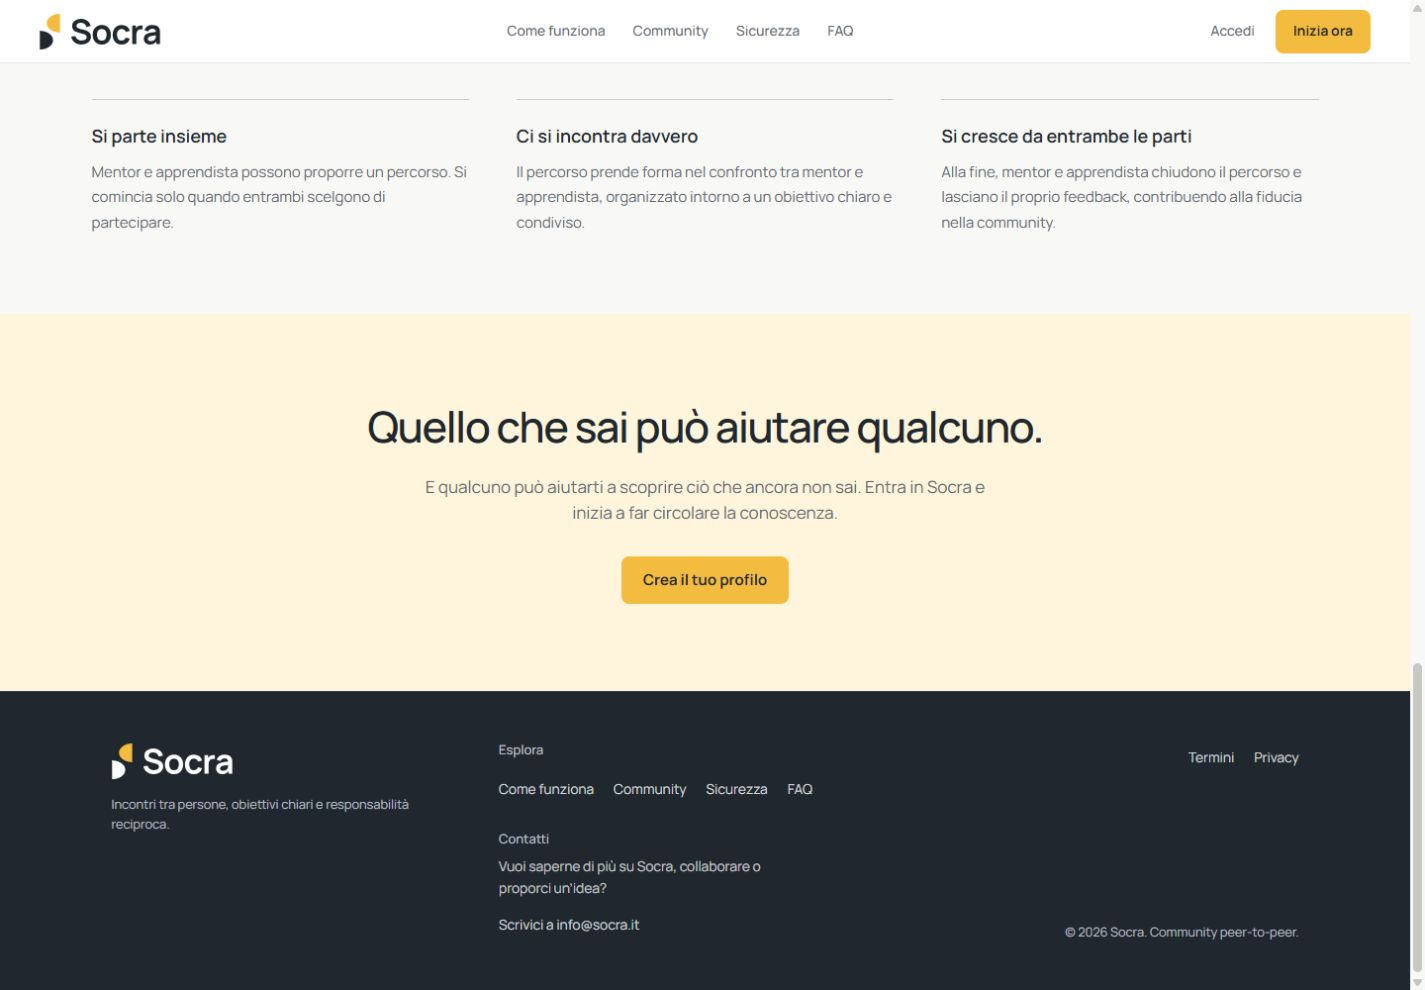
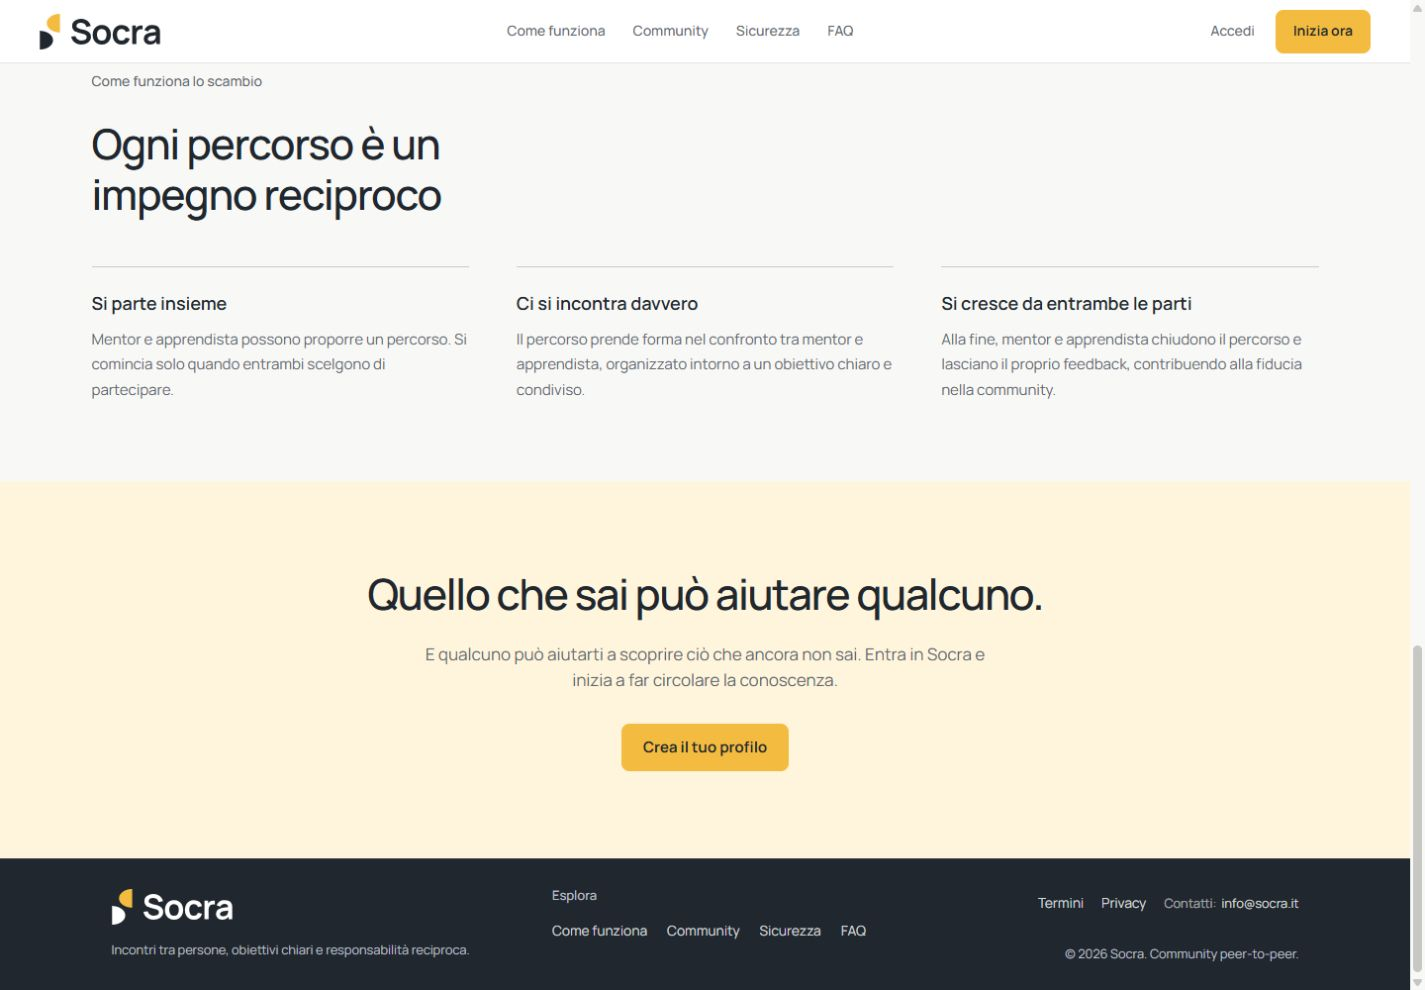
Use the approved compact contact row in the public footer

diff --git a/components/PublicLayout.module.css b/components/PublicLayout.module.css
@@ -146,13 +146,13 @@
   background: var(--navy-950);
   border-top: 1px solid rgba(255, 255, 255, 0.09);
   color: rgba(255, 255, 255, 0.72);
-  padding: 48px clamp(18px, 4vw, 40px);
+  padding: 26px clamp(18px, 4vw, 40px);
 }
 
 .footerInner {
   display: grid;
-  gap: 30px;
-  grid-template-columns: minmax(170px, 0.8fr) minmax(260px, 1.2fr) auto;
+  gap: 20px 38px;
+  grid-template-columns: minmax(210px, 0.9fr) minmax(260px, 1fr) auto;
   margin: 0 auto;
   max-width: 1200px;
 }
@@ -175,22 +175,7 @@
 .footerNavGroup {
   align-content: start;
   display: grid;
-  gap: 12px;
-}
-
-.footerContacts {
-  display: grid;
   gap: 8px;
-  justify-items: start;
-  margin-top: 12px;
-}
-
-.footerContactText {
-  color: rgba(255, 255, 255, 0.72);
-  font-size: 0.86rem;
-  line-height: 1.6;
-  margin: 0;
-  max-width: 38ch;
 }
 
 .footerNavLabel {
@@ -206,7 +191,26 @@
   align-items: flex-start;
   display: flex;
   flex-wrap: wrap;
-  gap: 6px 20px;
+  gap: 2px 20px;
+}
+
+.footerMetaNav {
+  align-items: center;
+  gap: 2px 18px;
+  justify-content: flex-end;
+}
+
+.footerContact {
+  align-items: center;
+  color: rgba(255, 255, 255, 0.58);
+  display: inline-flex;
+  font-size: 0.8rem;
+  gap: 5px;
+  white-space: nowrap;
+}
+
+.footerContact .footerLink {
+  font-size: inherit;
 }
 
 .footerLink {
@@ -233,8 +237,9 @@
   align-items: flex-end;
   display: flex;
   flex-direction: column;
-  gap: 12px;
+  gap: 14px;
   justify-content: space-between;
+  min-height: 80px;
   text-align: right;
 }
 
@@ -391,6 +396,20 @@
 .footerLink { color: #d4d8da; }
 .footerNavLabel { text-transform: none; letter-spacing: 0; font-size: .8125rem; font-weight: 500; }
 
+@media (max-width: 1250px) {
+  .footerInner {
+    gap: 20px 24px;
+    grid-template-columns: minmax(190px, 1fr) minmax(240px, 1fr);
+  }
+
+  .footerMeta {
+    align-items: center;
+    flex-direction: row;
+    grid-column: 1 / -1;
+    min-height: 0;
+  }
+}
+
 @media (max-width: 900px) {
   .nav {
     grid-template-columns: auto 1fr;
@@ -449,14 +468,47 @@
     margin: 8px 0;
   }
 
+}
+
+@media (max-width: 650px) {
+  .footer {
+    padding-block: 22px;
+  }
+
   .footerInner {
-    grid-template-columns: 1fr 1.5fr;
+    gap: 20px 16px;
+    grid-template-columns: 1fr;
+  }
+
+  .footerNav {
+    gap: 0 22px;
   }
 
   .footerMeta {
     align-items: flex-start;
-    grid-column: 1 / -1;
+    border-top: 1px solid rgba(255, 255, 255, 0.1);
+    flex-direction: column;
+    gap: 10px;
+    grid-column: auto;
+    padding-top: 10px;
     text-align: left;
+  }
+
+  .footerMetaNav {
+    gap: 0 18px;
+    justify-content: flex-start;
+  }
+
+  .footerContact {
+    flex-basis: 100%;
+  }
+
+  .footerLink {
+    min-height: 30px;
+  }
+
+  .footerNavGroup .footerLink {
+    font-size: 0.8rem;
   }
 }
 
@@ -476,27 +528,6 @@
 
   .shortCta {
     display: inline;
-  }
-
-  .footer {
-    padding-block: 40px;
-  }
-
-  .footerInner {
-    grid-template-columns: 1fr;
-  }
-
-  .footerMeta {
-    grid-column: auto;
-  }
-
-  .footerNav {
-    display: grid;
-    grid-template-columns: 1fr 1fr;
-  }
-
-  .footerLink {
-    min-height: 42px;
   }
 
   .actionGold,

diff --git a/components/PublicLayout.tsx b/components/PublicLayout.tsx
@@ -178,14 +178,9 @@ export function PublicFooter() {
               </Link>
           ))}
           </nav>
-          <section aria-labelledby="footer-contacts-heading" className={styles.footerContacts}>
-            <h2 className={styles.footerNavLabel} id="footer-contacts-heading">Contatti</h2>
-            <p className={styles.footerContactText}>Vuoi saperne di più su Socra, collaborare o proporci un’idea?</p>
-            <a className={styles.footerLink} href="mailto:info@socra.it">Scrivici a info@socra.it</a>
-          </section>
         </div>
         <div className={styles.footerMeta}>
-          <nav aria-label="Informazioni legali" className={styles.footerNav}>
+          <nav aria-label="Contatti e informazioni legali" className={`${styles.footerNav} ${styles.footerMetaNav}`}>
             <Link prefetch={true}
               aria-current={pathname === "/termini" ? "page" : undefined}
               className={styles.footerLink}
@@ -200,6 +195,7 @@ export function PublicFooter() {
             >
               Privacy
             </Link>
+            <span className={styles.footerContact}>Contatti: <a className={styles.footerLink} href="mailto:info@socra.it">info@socra.it</a></span>
           </nav>
           <p className={styles.copyright}>© {year} Socra. Community peer-to-peer.</p>
         </div>

diff --git a/docs/testing/2026-10-17-public-contacts.md b/docs/testing/2026-10-17-public-contacts.md
@@ -2,9 +2,9 @@
 
 ## Perimetro e fonti
 
-Approvati dal responsabile: indirizzo `info@socra.it`, creazione della casella Aruba e sottosezione **Contatti** nel footer condiviso delle pagine pubbliche. Fonte funzionale: `Socra-BE/docs/wiki/01-community.md`, aggiornata nello stesso lavoro. Basi release recuperate con fetch: FE `457eae9deaf4e0274058b1241d28ec9b0632e204`, BE `b39abfbbdbfc912205b3c045747ae2626da44d6f`. Branch di lavoro: FE `fix/public-contacts-20261017`, BE `docs/public-contacts-20261017`; checkout originari e lavoro delle altre chat preservati.
+Approvati dal responsabile: indirizzo `info@socra.it`, creazione della casella Aruba e **variante B** per il footer, scelta dopo confronto di due prototipi desktop/mobile. Testo finale “Contatti: info@socra.it” accanto a Termini/Privacy, senza blocco descrittivo separato; su mobile il contatto occupa la riga successiva. Fonte funzionale: `Socra-BE/docs/wiki/01-community.md`, aggiornata nello stesso lavoro. Basi release recuperate con fetch: FE `457eae9deaf4e0274058b1241d28ec9b0632e204`, BE `b39abfbbdbfc912205b3c045747ae2626da44d6f`. Branch di lavoro: FE `fix/public-contacts-20261017`, BE `docs/public-contacts-20261017`; checkout originari e lavoro delle altre chat preservati.
 
-`PublicFooter` riusa gli stili esistenti e presenta il testo approvato con un collegamento `mailto:info@socra.it`. Il click apre il programma di posta; nessun form, invio dal sito, tracciamento o nuovo dato persistito. La wiki 07 e i contratti/permessi non cambiano. Gli schemi della wiki 13 sono stati verificati: componenti applicativi, collegamenti cloud, provider delle email operative, confini e responsabilità restano invariati. Il contatto manuale Aruba non è un’integrazione del backend. Nessuna migrazione o modifica architetturale; nessun ADR necessario.
+`PublicFooter` presenta il collegamento `mailto:info@socra.it` nella navigazione “Contatti e informazioni legali”, con spaziature compatte. Il click apre il programma di posta; nessun form, invio dal sito, tracciamento o nuovo dato persistito. La wiki 07 e i contratti/permessi non cambiano. Gli schemi della wiki 13 sono stati verificati: componenti applicativi, collegamenti cloud, provider delle email operative, confini e responsabilità restano invariati. Il contatto manuale Aruba non è un’integrazione del backend. Nessuna migrazione o modifica architetturale; nessun ADR necessario.
 
 ## Aruba
 
@@ -22,12 +22,12 @@ Accesso postmaster completato dal responsabile. Creata la casella reale `info@so
 - Validatore backend `scripts/check_agent_docs.py --frontend ../public-contacts-frontend-20261017`: 33 documenti BE e 5 ingressi FE, zero errori. Eseguito con il runtime Python disponibile, perché l’alias `python` di sistema non risolveva l’interprete.
 - `git diff --check`: superato nei due repository.
 
-Browser sulla build locale a `http://127.0.0.1:3168/`, viewport desktop 1440×1000 e mobile 390×844. Regione accessibile “Contatti”, intestazione h2 e destinazione `mailto:info@socra.it` osservate; larghezza documento/scroll 1425/1425 e 375/375 rispettivamente, senza overflow orizzontale. Nessun click che avvii un client di posta esterno o invii messaggi. Il footer è statico e pubblico: non richiede fixture autenticate o nuove chiamate API. Queste prove non attestano il funzionamento dei flussi backend.
+Browser sulla build reale locale a `http://127.0.0.1:3168/`, viewport desktop 1440×1000 e mobile 390×844. Navigazione accessibile “Contatti e informazioni legali” e destinazione `mailto:info@socra.it` osservate. Altezza footer **133 px desktop** e **circa 340 px mobile**, con larghezza documento/scroll 1425/1425 e 375/375 rispettivamente. Verificate inoltre viewport larghe 320, 650, 900 e 1250 px: nessun overflow orizzontale e indirizzo interamente entro i margini. Nessun click che avvii un client di posta esterno o invii messaggi. Il footer è statico e pubblico: non richiede fixture autenticate o nuove chiamate API. Queste prove non attestano il funzionamento dei flussi backend.
 
 [Desktop](public-contacts-20261017/contacts-desktop.jpg) · [Mobile](public-contacts-20261017/contacts-mobile.jpg).
 
 ## Review indipendenti e stato
 
-Revisione statica indipendente del diff: nessun rilievo azionabile. Seconda review LLM indipendente, su immagini originali senza lettura preventiva del codice: **PASS**, testo leggibile, raggruppamento chiaro e coerenza con il footer; nessun clipping, sovrapposizione o troncamento su entrambe le viewport. La review visiva copre soltanto il footer pubblico, non l’intera suite UX dei flussi community.
+Revisione statica indipendente del diff finale B: nessun rilievo azionabile; classi obsolete rimosse e navigazione principale invariata. Seconda review LLM indipendente, sulle nuove immagini della build reale e senza lettura preventiva del codice: **PASS**, variante B coerente con la scelta; contatto leggibile accanto ai link legali su desktop e su riga dedicata su mobile. Nessun clipping, sovrapposizione o troncamento su entrambe le viewport. La review visiva copre soltanto il footer pubblico, non l’intera suite UX dei flussi community.
 
 Casella creata e footer implementato/verificato localmente. Nessun push, merge o deploy in questo lavoro; il sito pubblico non è stato modificato. La pubblicazione richiede l’autorizzazione prevista dagli ingressi del repository.
